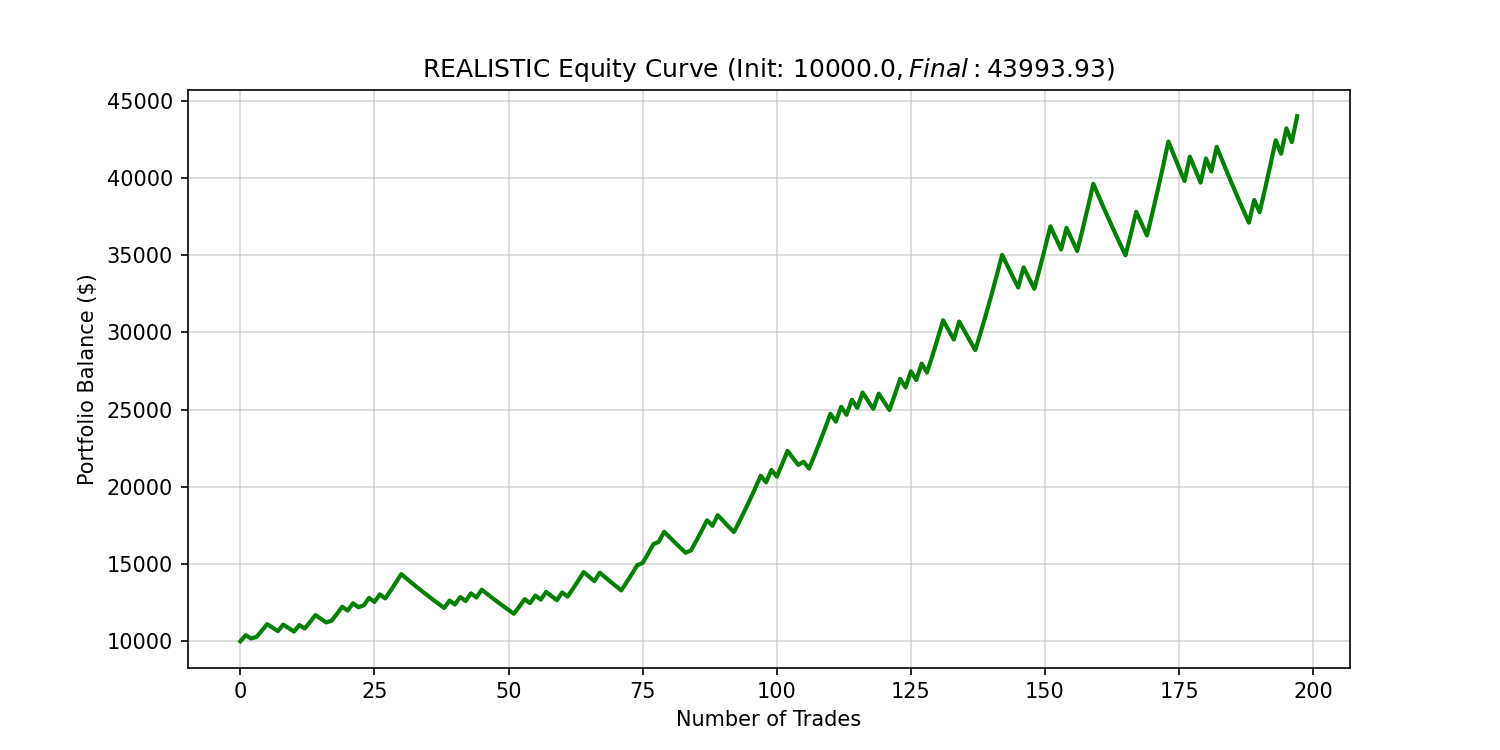
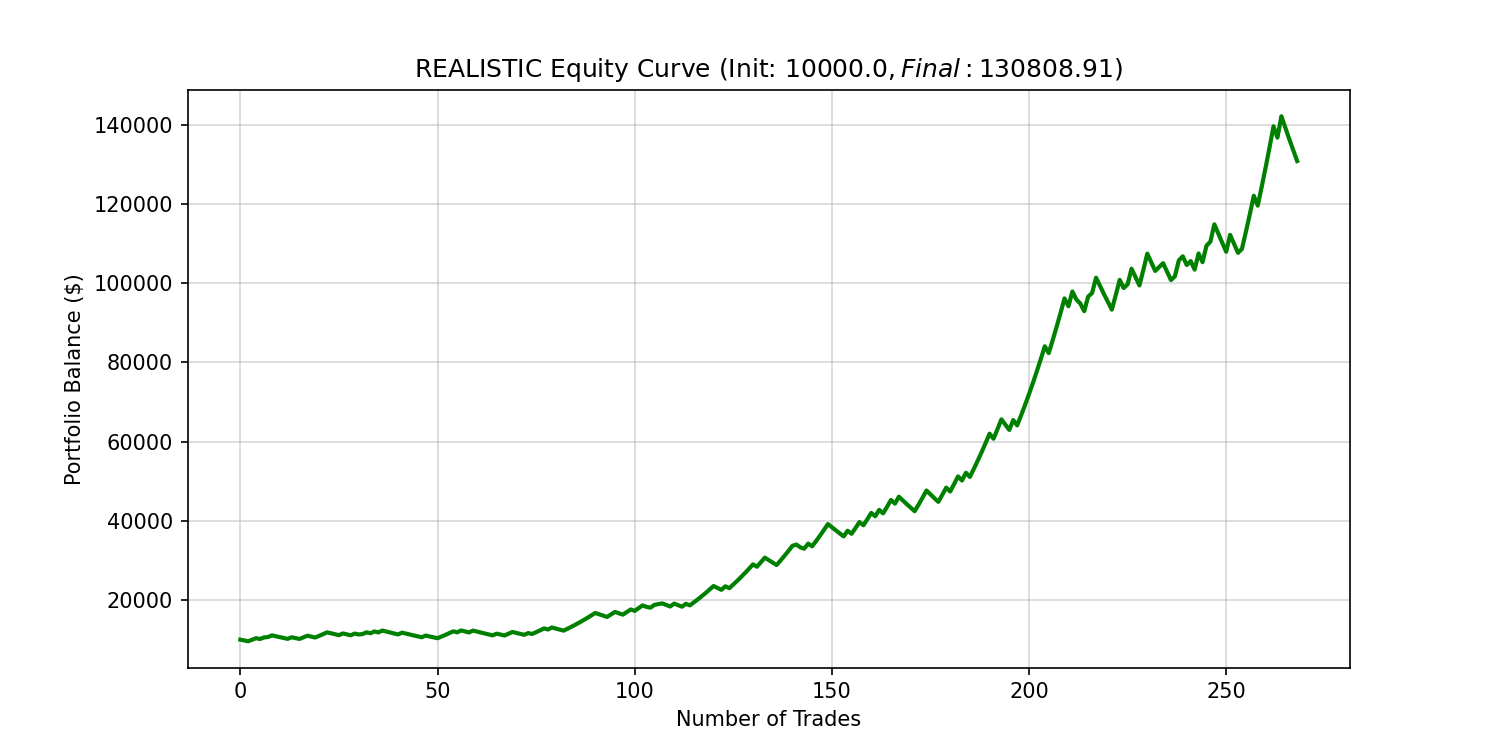
Add two-step hybrid training pipeline
This change adds a two-step hybrid training workflow that loads pretrained CNN and LSTM backbones, freezes them, and trains only the fusion head using focal-loss weighting. It saves the best fusion checkpoint, runs a realistic hybrid backtest, and updates the generated equity curve output.

diff --git a/train_twostep.py b/train_twostep.py
@@ -1,0 +1,164 @@
+import os
+import pandas as pd
+import numpy as np
+import torch
+import torch.nn as nn
+import torch.optim as optim
+from torch.utils.data import DataLoader
+from torchvision import transforms
+
+# Import configurations and datasets
+from train_hybrid import TrainConfig, FocalLoss
+from train_hybrid import HybridCandlestickDataset
+from models import Hybrid_CNN_LSTM, CustomCandlestickCNN, LSTMBaseline
+from backtester import BacktestConfig, run_backtest
+
+def run_two_step_training():
+    print("="*60)
+    print("PHASE 1: TWO-STEP TRAINING (FROZEN BACKBONES)")
+    print("="*60)
+    
+    config = TrainConfig()
+    device = torch.device("cuda" if torch.cuda.is_available() else "cpu")
+    print(f"Using device: {device}")
+    
+    # 1. Load Data
+    df = pd.read_csv(config.csv_file)
+    df["end_date"] = pd.to_datetime(df["end_date"])
+    df = df.sort_values(by="end_date").reset_index(drop=True)
+    
+    split_idx = int(len(df) * config.train_split_pct)
+    train_df = df.iloc[:split_idx].reset_index(drop=True)
+    val_df = df.iloc[split_idx:].reset_index(drop=True)
+    
+    data_transforms = transforms.Compose([
+        transforms.Resize((224, 224)),
+        transforms.ToTensor(),
+        transforms.Normalize(mean=[0.485, 0.456, 0.406], std=[0.229, 0.224, 0.225])
+    ])
+    
+    train_dataset = HybridCandlestickDataset(train_df, config.img_dir, config.tensor_dir, transform=data_transforms)
+    val_dataset = HybridCandlestickDataset(val_df, config.img_dir, config.tensor_dir, transform=data_transforms)
+    
+    # Assuming sample_tensor has 11 columns after Z-score fix
+    sample_tensor = train_dataset[0][1]
+    input_dim = sample_tensor.shape[1]
+    
+    # Simple DataLoader for memory efficiency
+    train_loader = DataLoader(train_dataset, batch_size=config.batch_size, shuffle=True, num_workers=4)
+    val_loader = DataLoader(val_dataset, batch_size=config.batch_size, shuffle=False, num_workers=4)
+    
+    # 2. Initialize Hybrid Model
+    model = Hybrid_CNN_LSTM(lstm_input_dim=input_dim, num_classes=config.num_classes)
+    
+    # 3. Load pre-trained weights into the backbones
+    cnn_path = "best_model_cnn.pth"
+    lstm_path = "best_model_lstm.pth"
+    
+    if os.path.exists(cnn_path):
+        cnn_state = torch.load(cnn_path, map_location=device)
+        model.cnn.load_state_dict(cnn_state, strict=False)
+        print(f"[+] Loaded CNN weights from {cnn_path}")
+    else:
+        print(f"[-] Missing {cnn_path}. Exiting.")
+        return
+        
+    if os.path.exists(lstm_path):
+        lstm_state = torch.load(lstm_path, map_location=device)
+        model.lstm.load_state_dict(lstm_state, strict=False)
+        print(f"[+] Loaded LSTM weights from {lstm_path}")
+    else:
+        print(f"[-] Missing {lstm_path}. Exiting.")
+        return
+        
+    # 4. FREEZE BACKBONES
+    print("Freezing CNN and LSTM backbones...")
+    for param in model.cnn.parameters():
+        param.requires_grad = False
+    for param in model.lstm.parameters():
+        param.requires_grad = False
+        
+    # Verify what is trainable
+    trainable_params = sum(p.numel() for p in model.parameters() if p.requires_grad)
+    print(f"Trainable parameters (Fusion Layers Only): {trainable_params}")
+    
+    model = model.to(device)
+    
+    # 5. Setup Optimizer (Only for trainable params!)
+    criterion_none = FocalLoss(alpha=config.focal_alpha, gamma=config.focal_gamma, reduction='none')
+    optimizer = optim.Adam(filter(lambda p: p.requires_grad, model.parameters()), lr=0.001) # Higher LR since we only train few layers
+    
+    best_val_return = -9999.0
+    epochs_no_improve = 0
+    save_path = "best_model_hybrid_twostep.pth"
+    
+    max_epochs = 30 # Doesn't need 150 since it's just the fusion head
+    
+    print("\nStarting Phase 1 Training (Fusion Head)...")
+    for epoch in range(1, max_epochs + 1):
+        model.train()
+        train_loss, total_train = 0.0, 0
+        
+        for images, tabular, labels, pct_changes in train_loader:
+            images, tabular, labels, pct_changes = images.to(device), tabular.to(device), labels.to(device), pct_changes.to(device).float()
+            optimizer.zero_grad()
+            
+            outputs = model(images, tabular)
+            raw_loss = criterion_none(outputs, labels)
+            loss_weights = 1.0 + 5.0 * torch.abs(pct_changes / 100.0)
+            loss = torch.mean(raw_loss * loss_weights)
+            
+            loss.backward()
+            optimizer.step()
+            
+            train_loss += loss.item() * images.size(0)
+            total_train += images.size(0)
+            
+        epoch_train_loss = train_loss / total_train
+        
+        # Eval
+        model.eval()
+        all_probs, all_labels, all_pct_changes = [], [], []
+        with torch.no_grad():
+            for images, tabular, labels, pct_changes in val_loader:
+                images, tabular = images.to(device), tabular.to(device)
+                outputs = model(images, tabular)
+                probs = torch.softmax(outputs, dim=1)
+                all_probs.extend(probs[:, 1].cpu().tolist())
+                all_labels.extend(labels.tolist())
+                all_pct_changes.extend(pct_changes.tolist())
+                
+        best_epoch_val_return = -9999.0
+        best_epoch_val_threshold = 0.5
+        cost = config.transaction_cost
+        
+        for th in np.arange(0.1, 1.0, 0.1):
+            th_preds = [1 if p >= th else 0 for p in all_probs]
+            th_return = sum((change - cost) for pred, change in zip(th_preds, all_pct_changes) if pred == 1)
+            if th_return > best_epoch_val_return:
+                best_epoch_val_return = th_return
+                best_epoch_val_threshold = th
+                
+        print(f"Epoch {epoch}/{max_epochs} -> Train Loss: {epoch_train_loss:.4f} | Val Net Return: {best_epoch_val_return:+.2f}% | Best TH: {best_epoch_val_threshold:.1f}")
+        
+        if best_epoch_val_return > best_val_return:
+            best_val_return = best_epoch_val_return
+            torch.save(model.state_dict(), save_path)
+            print(f"  [+] Saved new best fusion model -> {best_val_return:+.2f}%")
+            epochs_no_improve = 0
+        else:
+            epochs_no_improve += 1
+            
+        if epochs_no_improve >= 8:
+            print("\n[-] Early stopping triggered for Fusion Head.")
+            break
+            
+    print("\nTraining Complete. Launching Realistic Backtest...")
+    
+    b_config = BacktestConfig()
+    b_config.model_type = "hybrid"
+    b_config.model_path = save_path
+    run_backtest(b_config)
+
+if __name__ == "__main__":
+    run_two_step_training()
